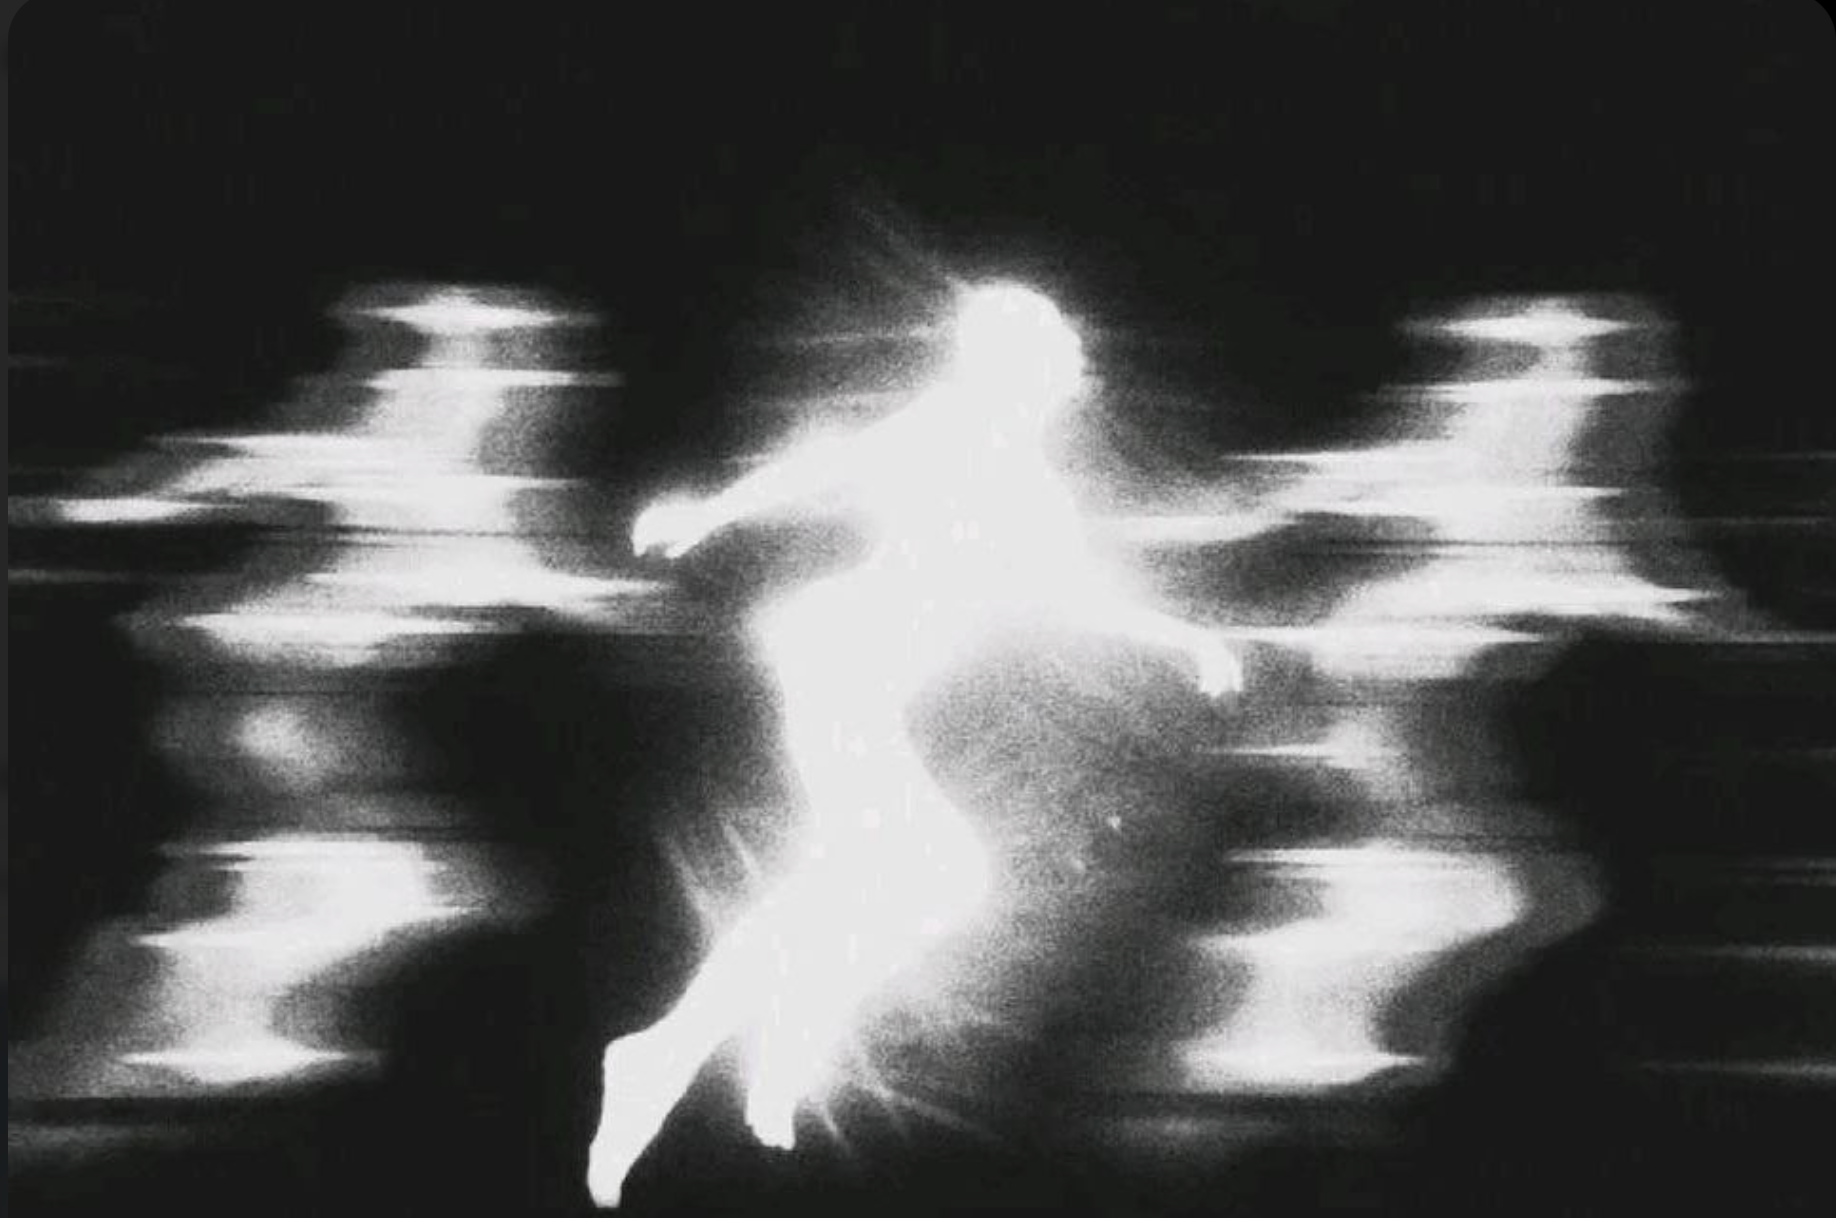
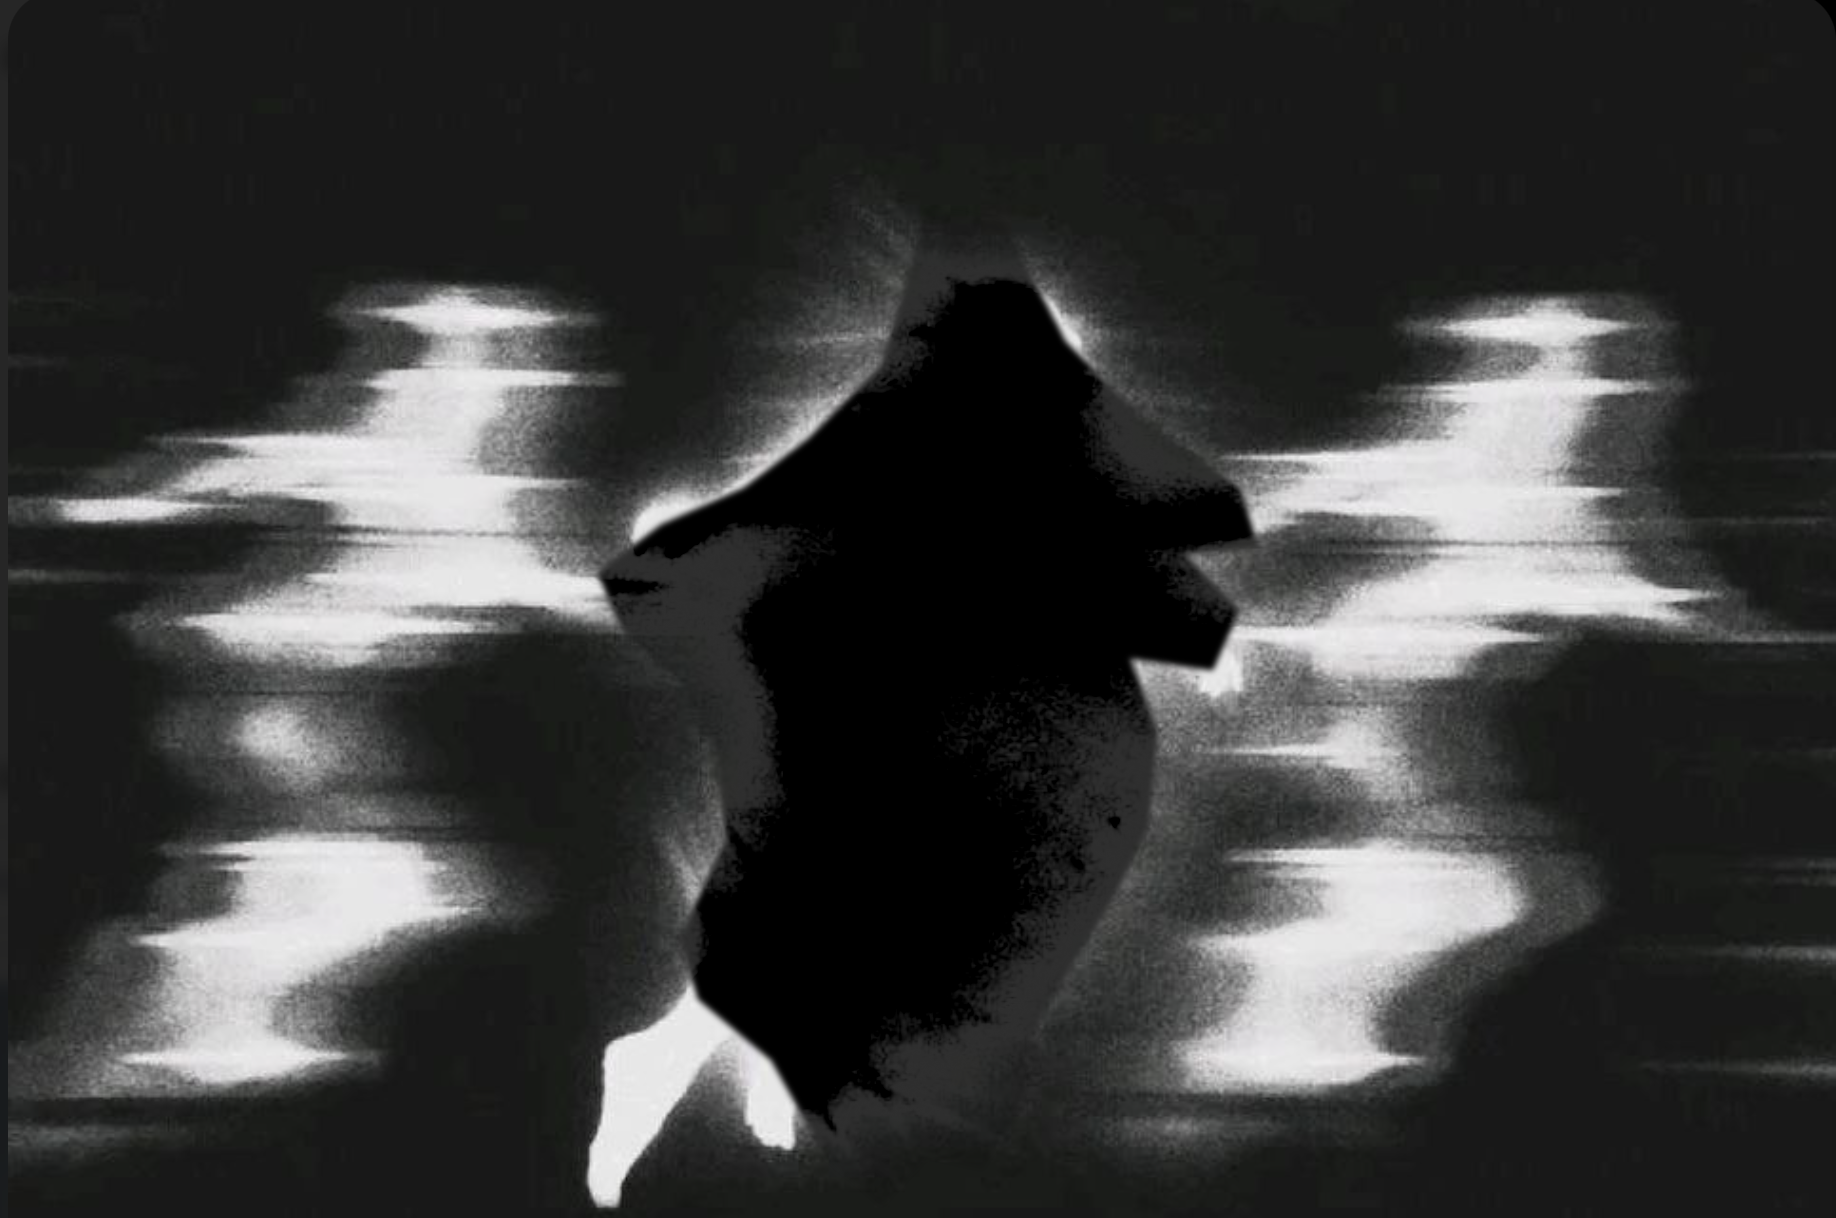
Add files via upload
removed homepage text and added instagram

Changed region(s): [[0.3105, 0.1872, 0.683, 0.936]]

diff --git a/index.html b/index.html
@@ -61,6 +61,22 @@
       will-change: opacity, transform;
     }
 
+    .figure-link {
+      position: absolute;
+      top: 14%;
+      right: 29%;
+      bottom: 7%;
+      left: 29%;
+      z-index: 2;
+      display: block;
+      cursor: pointer;
+    }
+
+    .figure-link:focus-visible {
+      outline: 1px solid rgb(245 245 243 / 55%);
+      outline-offset: -6px;
+    }
+
     /* Soft darkening at the foot of the image keeps the two lines readable. */
     .shade {
       position: absolute;
@@ -121,6 +137,12 @@
     @media (max-width: 600px) {
       .image,
       .light-flicker { object-position: center 66%; }
+      .figure-link {
+        top: 12%;
+        right: 22%;
+        bottom: 4%;
+        left: 22%;
+      }
       .caption {
         bottom: 4vh;
         left: 1.25rem;
@@ -135,13 +157,10 @@
 <body>
   <main class="hero">
     <img class="image" src="background.png" alt="Svartvit, kornig bild med en ljus gestalt i mitten">
+    <a class="figure-link" href="https://www.instagram.com/bardiabaradaran/" target="_blank" rel="noopener noreferrer" aria-label="Öppna Bärdia Baradarans Instagramprofil"></a>
     <img class="light-flicker" src="flicker.png" alt="" aria-hidden="true">
     <div class="shade" aria-hidden="true"></div>
     <div class="scanlines" aria-hidden="true"></div>
-    <div class="caption">
-      <p class="status">work in progress</p>
-      <h1>Bärdia Baradaran</h1>
-    </div>
   </main>
   <script>
     const figure = document.querySelector(".light-flicker");
